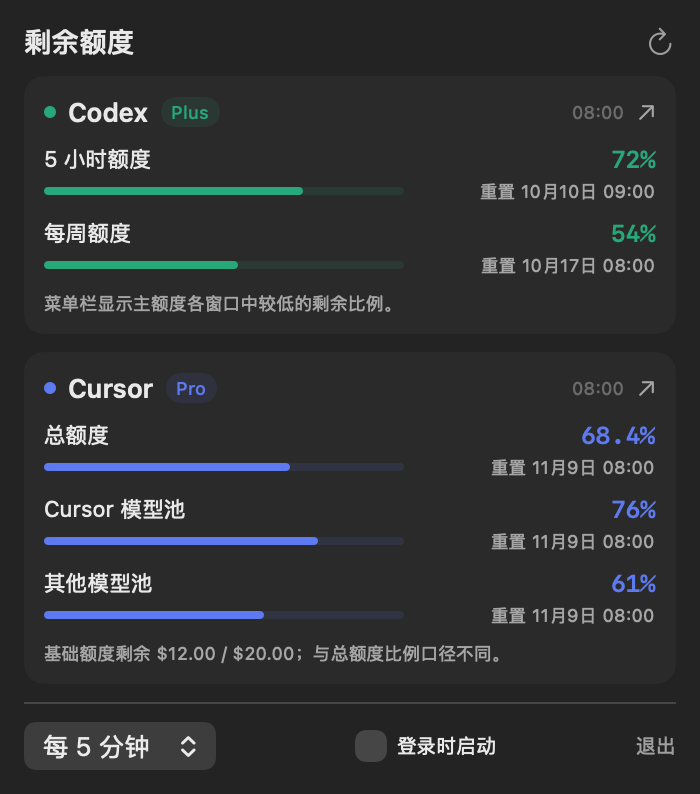
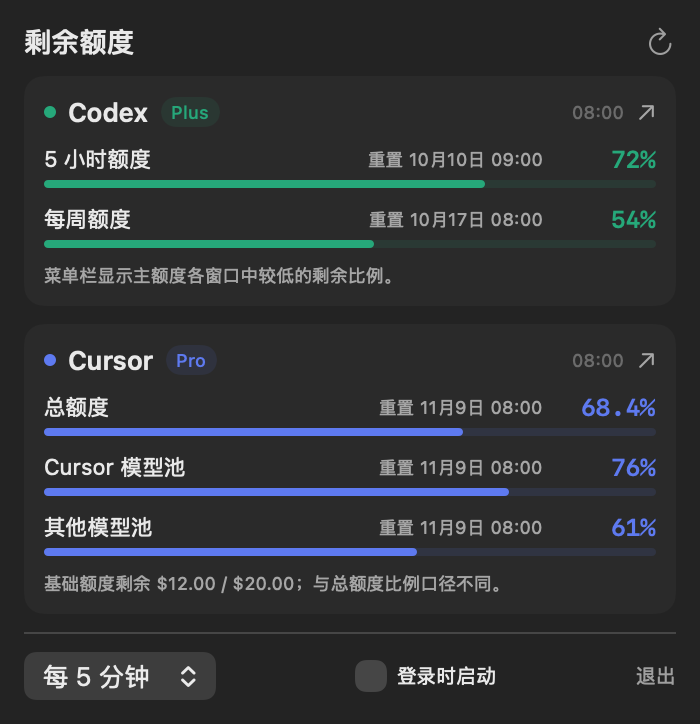
Move reset times beside percentages and use full-width quota tracks

diff --git a/Sources/QuotaBar/App.swift b/Sources/QuotaBar/App.swift
@@ -117,24 +117,22 @@ struct QuotaPanel: View {
             if let snapshot {
                 ForEach(snapshot.quotas) { quota in
                     VStack(alignment: .leading, spacing: 3) {
-                        HStack {
+                        HStack(spacing: 8) {
                             Text(quota.label).font(.system(size: 11))
                             Spacer()
+                            Text(quota.resetsAt.map { "重置 \($0.formatted(.dateTime.month().day().hour().minute()))" } ?? "重置时间未知")
+                                .font(.system(size: 9)).foregroundStyle(.secondary).fixedSize()
                             Text(quota.formatted).font(.system(size: 12, weight: .semibold, design: .monospaced))
                                 .foregroundStyle(quota.remaining <= 15 ? .orange : tint)
+                                .frame(width: 48, alignment: .trailing)
                         }
-                        HStack(spacing: 8) {
-                            GeometryReader { geometry in
-                                ZStack(alignment: .leading) {
-                                    Capsule().fill(tint.opacity(0.12))
-                                    Capsule().fill(quota.remaining <= 15 ? .orange : tint)
-                                        .frame(width: geometry.size.width * quota.remaining / 100)
-                                }
-                            }.frame(height: 4)
-                            Text(quota.resetsAt.map { "重置 \($0.formatted(.dateTime.month().day().hour().minute()))" } ?? "重置时间未知")
-                                .font(.system(size: 9)).foregroundStyle(.secondary)
-                                .fixedSize().frame(width: 118, alignment: .trailing)
-                        }
+                        GeometryReader { geometry in
+                            ZStack(alignment: .leading) {
+                                Capsule().fill(tint.opacity(0.12))
+                                Capsule().fill(quota.remaining <= 15 ? .orange : tint)
+                                    .frame(width: geometry.size.width * quota.remaining / 100)
+                            }
+                        }.frame(height: 4)
                         if let detail = quota.detail { Text(detail).font(.caption2).foregroundStyle(.secondary) }
                     }
                 }
